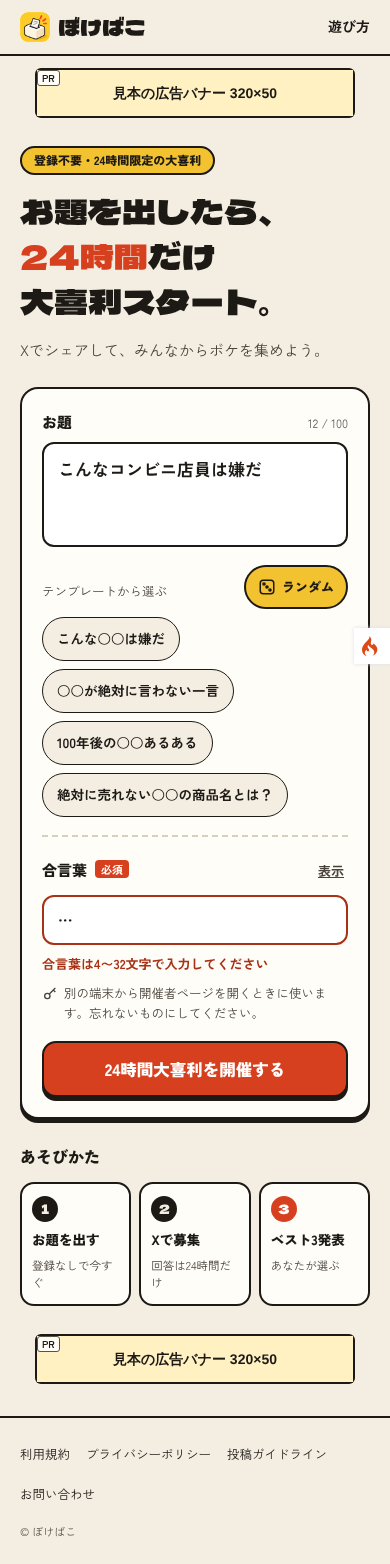
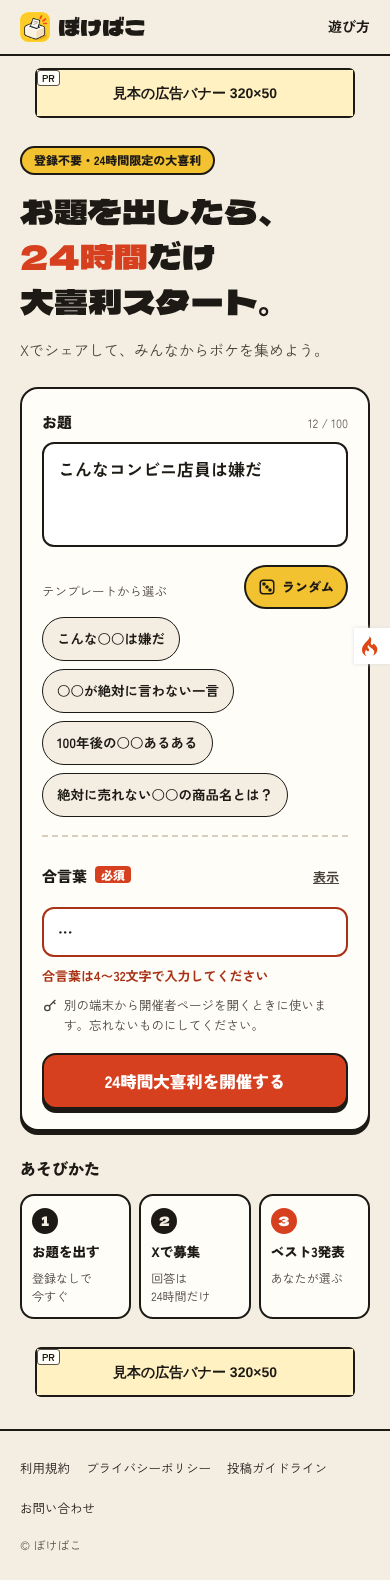
[共通] ブラッシュアップ3回目：文字の大きさ・色・押せる大きさ・部品をそろえる（指示書 第11・12章の続き）
主要15画面を自動で測って直した（12px 未満の文字、配色の表にない色、44px 未満のボタン）
- 12px 未満の文字をなくした（タグ・必須の印・あなたの回答・開催者ページの見出し・あそびかた・フッター）。広告の PR 表示だけ例外
- 説明文の濃い灰（#3A342D）を色の表に --ink-body として足し、6か所の直書きを置き換えた
- 「必須」の印を .c-req に1つにした（U-01 と U-18 で別の部品だった）
- 合言葉の「表示」ボタンと「別の端末から開催者画面を開く」を 44px の高さに
- あそびかたの説明を文節の途中で折り返さない
- 画面の記録を撮り直した

Claude-Session: https://claude.ai/code/session_017BpiDbHoQzEVnmdJX5ZYQm

diff --git a/public/assets/css/base.css b/public/assets/css/base.css
@@ -44,7 +44,7 @@ details > summary::-webkit-details-marker { display: none; }
 .l-footer { margin-top: auto; padding: 16px var(--gutter) 24px; border-top: var(--border); display: flex; flex-direction: column; gap: var(--space-1); }
 .l-footer__nav { display: flex; flex-wrap: wrap; column-gap: 16px; font-size: 12.5px; }
 .l-footer__nav a { min-height: 40px; display: flex; align-items: center; text-decoration: none; }
-.l-footer__copy { font-size: 11px; color: var(--ink-muted); }
+.l-footer__copy { font-size: 12px; color: var(--ink-muted); }
 
 @media (min-width: 768px) {
   .l-header, .l-footer { width: 100%; max-width: var(--content-max); margin-left: auto; margin-right: auto; padding-left: 0; padding-right: 0; }
@@ -85,13 +85,13 @@ details > summary::-webkit-details-marker { display: none; }
 }
 .c-tag--ink { background: var(--ink); color: var(--white); border-color: var(--ink); }
 .c-tag--sand { background: var(--sand); }
-.c-tag--small { padding: 0 6px; font-size: 11px; border-radius: 4px; }
+.c-tag--small { padding: 0 6px; font-size: 12px; border-radius: 4px; }
 .c-tag--outline { background: transparent; border: 1.5px dashed var(--kin); color: var(--kin); border-radius: 6px; padding: 1px 8px; font-size: 11px; }
 
 .c-badge {
   min-width: 22px; height: 22px; padding: 0 6px; border-radius: var(--radius-pill);
   background: var(--shu); color: var(--white);
-  display: inline-flex; align-items: center; justify-content: center; font-size: 11.5px; font-weight: 900;
+  display: inline-flex; align-items: center; justify-content: center; font-size: 12px; font-weight: 900;
 }
 
 .c-card { background: var(--card); border: var(--border); border-radius: var(--radius-card); padding: var(--space-3); display: flex; flex-direction: column; gap: var(--space-2); }
@@ -119,8 +119,8 @@ details > summary::-webkit-details-marker { display: none; }
 .c-segment { display: inline-flex; padding: 3px; border: var(--border); border-radius: 999px; background: var(--card); }
 .c-segment__item { min-height: 36px; display: inline-flex; align-items: center; padding: 0 14px; border-radius: 999px; font-size: 13px; font-weight: 700; color: var(--ink-sub); text-decoration: none; }
 .c-segment__item.is-current { background: var(--ink); color: var(--white); }
-.c-field__required { margin-left: 8px; padding: 1px 6px; border-radius: 4px; background: var(--shu); color: var(--white); font-size: 11px; font-weight: 700; vertical-align: 2px; }
-.c-field__reveal { min-height: 32px; padding: 0 4px; border: 0; background: none; font-size: 13px; font-weight: 700; color: var(--ink-sub); text-decoration: underline; cursor: pointer; }
+.c-req { margin-left: 8px; padding: 0 6px; border-radius: 4px; background: var(--shu); color: var(--white); font-size: 12px; font-weight: 900; vertical-align: 2px; } /* 入力欄の「必須」（U-01・U-18） */
+.c-field__reveal { min-height: 44px; min-width: 44px; padding: 0 6px; border: 0; background: none; font-size: 13px; font-weight: 700; color: var(--ink-sub); text-decoration: underline; cursor: pointer; }
 .c-input, .c-textarea, .c-select {
   width: 100%; border: var(--border); border-radius: var(--radius-input);
   background: var(--white); padding: 0 14px; font-size: 16px; color: var(--ink);
@@ -164,6 +164,6 @@ details > summary::-webkit-details-marker { display: none; }
 
 /* 開催者画面への入口（U-04・U-11） */
 .c-host-entry { text-align: center; font-size: 12.5px; }
-.c-host-entry a { color: var(--ink-sub); }
+.c-host-entry a { display: inline-block; padding: 12px 0; color: var(--ink-sub); } /* 1行だけのリンクなので、押せる高さを 44px にする */
 
 .c-ad[hidden] { display: none; }

diff --git a/public/assets/css/pages/u14-about.css b/public/assets/css/pages/u14-about.css
@@ -2,13 +2,13 @@
 .p-about__hero { padding-top: 32px; gap: 14px; }
 .p-about__hero .c-tag { align-self: flex-start; }
 .p-about__accent { font-style: normal; color: var(--shu); }
-.p-about__lead { font-size: 15px; line-height: 1.8; color: #3A342D; }
+.p-about__lead { font-size: 15px; line-height: 1.8; color: var(--ink-body); }
 .p-about__h2 { font-family: var(--font-display); font-weight: 400; font-size: 22px; }
 .p-about__h3 { font-size: 16px; font-weight: 900; }
 .p-about__steps { display: flex; flex-direction: column; gap: 10px; }
 .p-about__step { background: var(--card); border: var(--border); border-radius: var(--radius-card); padding: 18px; display: flex; gap: 14px; }
 .p-about__step h3 { font-size: 16px; font-weight: 900; margin-bottom: 4px; }
-.p-about__step p { font-size: 13.5px; line-height: 1.7; color: #3A342D; }
+.p-about__step p { font-size: 13.5px; line-height: 1.7; color: var(--ink-body); }
 .p-about__num { width: 36px; height: 36px; flex-shrink: 0; border-radius: 50%; background: var(--ink); color: var(--white); display: flex; align-items: center; justify-content: center; font-family: var(--font-display); font-size: 16px; }
 .p-about__num--shu { background: var(--shu); }
 .p-about__answerer { display: flex; gap: 12px; align-items: flex-start; border: 2px dashed var(--ink); border-radius: 14px; padding: 14px 16px; font-size: 13.5px; line-height: 1.7; }
@@ -25,7 +25,7 @@
 .p-about__faq summary em { font-style: normal; color: var(--shu); margin-right: 8px; }
 .p-about__faq-mark { flex-shrink: 0; width: 26px; height: 26px; border: var(--border); border-radius: 50%; display: flex; align-items: center; justify-content: center; font-size: 15px; }
 .p-about__faq details[open] .p-about__faq-mark { transform: rotate(45deg); }
-.p-about__faq details p { margin: 0 0 16px; padding-left: 20px; font-size: 14px; line-height: 1.75; color: #3A342D; }
+.p-about__faq details p { margin: 0 0 16px; padding-left: 20px; font-size: 14px; line-height: 1.75; color: var(--ink-body); }
 .p-about__rules { padding-left: 18px; list-style: disc; display: flex; flex-direction: column; gap: 4px; font-size: 13.5px; line-height: 1.7; }
 .p-about__link { align-self: flex-start; min-height: 40px; display: flex; align-items: center; font-size: 13.5px; font-weight: 700; }
 .p-about__last { padding-bottom: var(--space-2); }

diff --git a/public/assets/css/pages/u17-guidelines.css b/public/assets/css/pages/u17-guidelines.css
@@ -1,14 +1,14 @@
 /* U-17 投稿ガイドライン */
 .p-guide__hero { padding-top: 30px; gap: 12px; }
 .p-guide__hero .c-tag { align-self: flex-start; }
-.p-guide__lead { font-size: 14.5px; line-height: 1.8; color: #3A342D; }
+.p-guide__lead { font-size: 14.5px; line-height: 1.8; color: var(--ink-body); }
 .p-guide__h2 { font-size: 17px; font-weight: 900; }
 .p-guide__h3 { font-size: 15px; font-weight: 900; }
 .p-guide__p { font-size: 13.5px; line-height: 1.75; }
 .p-guide__rules { display: flex; flex-direction: column; gap: 10px; }
 .p-guide__rule { background: var(--card); border: var(--border); border-radius: 16px; padding: 14px 16px; display: flex; gap: 12px; }
 .p-guide__rule h3 { font-size: 15.5px; font-weight: 900; margin-bottom: 4px; }
-.p-guide__rule p { font-size: 13px; line-height: 1.7; color: #3A342D; }
+.p-guide__rule p { font-size: 13px; line-height: 1.7; color: var(--ink-body); }
 .p-guide__x { width: 28px; height: 28px; flex-shrink: 0; border-radius: 50%; background: var(--shu); color: var(--white); display: flex; align-items: center; justify-content: center; font-size: 14px; font-weight: 900; }
 .p-guide__ask { background: var(--ink); color: var(--white); border-radius: 20px; padding: 22px 20px; display: flex; flex-direction: column; gap: 6px; }
 .p-guide__ask-label { font-size: 12px; font-weight: 900; letter-spacing: .1em; color: var(--kin); }

diff --git a/public/assets/css/components/sheet.css b/public/assets/css/components/sheet.css
@@ -16,7 +16,7 @@
 .c-sheet__points svg { flex-shrink: 0; }
 .c-sheet__note { background: var(--paper); border-radius: var(--radius-input); padding: 14px 16px; display: flex; flex-direction: column; gap: var(--space-1); }
 .c-sheet__note-title { font-size: 13px; font-weight: 900; }
-.c-sheet__rules { padding-left: 18px; list-style: disc; display: flex; flex-direction: column; gap: 4px; font-size: 12.5px; line-height: 1.6; color: #3A342D; }
+.c-sheet__rules { padding-left: 18px; list-style: disc; display: flex; flex-direction: column; gap: 4px; font-size: 12.5px; line-height: 1.6; color: var(--ink-body); }
 .c-sheet__links { display: flex; gap: 16px; font-size: 12.5px; font-weight: 700; }
 .c-sheet__actions { display: flex; flex-direction: column; gap: var(--space-2); }
 .c-sheet__caution { display: flex; gap: 10px; align-items: flex-start; background: var(--paper); border-radius: var(--radius-input); padding: 12px 14px; font-size: 13px; line-height: 1.6; }

diff --git a/public/assets/css/pages/u18-contact.css b/public/assets/css/pages/u18-contact.css
@@ -10,7 +10,6 @@
 .p-contact__chip:has(input:focus-visible) { outline: 3px solid var(--shu); outline-offset: 2px; }
 .p-contact__body { resize: vertical; font-size: 16px; font-weight: 400; }
 .p-contact__captcha { height: 78px; border: 1.5px dashed var(--ink-muted); border-radius: 8px; display: flex; align-items: center; justify-content: center; font-size: 12px; color: var(--ink-muted); }
-.c-req { margin-left: 8px; background: var(--shu); color: var(--white); border-radius: 4px; padding: 0 6px; font-size: 11px; font-weight: 900; vertical-align: 2px; }
 .p-contact__done { align-items: center; text-align: center; gap: 14px; padding-top: 40px; }
-.p-contact__done-lead { font-size: 14px; line-height: 1.8; color: #3A342D; }
+.p-contact__done-lead { font-size: 14px; line-height: 1.8; color: var(--ink-body); }
 .p-contact__done-btn { align-self: stretch; margin-top: var(--space-2); }

diff --git a/public/assets/css/components/answers.css b/public/assets/css/components/answers.css
@@ -7,7 +7,7 @@
 .c-answers--row .c-answers__body { font-size: 15px; }
 .c-answers--row .c-answers__meta { display: contents; }
 .c-answers--row .c-answers__time { display: none; }
-.c-answers__mine { align-self: flex-start; background: var(--ink); color: var(--white); border-radius: 6px; padding: 1px 8px; font-size: 11px; font-weight: 900; }
+.c-answers__mine { align-self: flex-start; background: var(--ink); color: var(--white); border-radius: 6px; padding: 1px 8px; font-size: 12px; font-weight: 900; }
 .c-answers__body { padding-right: 6px; font-size: 16.5px; font-weight: 700; line-height: 1.6; overflow-wrap: anywhere; }
 .c-answers__meta { display: flex; justify-content: space-between; align-items: center; }
 .c-answers__time { font-size: 12px; color: var(--ink-muted); }

diff --git a/public/assets/css/pages/u08-host.css b/public/assets/css/pages/u08-host.css
@@ -7,7 +7,7 @@
 .p-host__odai { font-size: 20px; font-weight: 900; line-height: 1.45; }
 .p-host__stats { display: grid; grid-template-columns: repeat(3, minmax(0, 1fr)); gap: var(--space-1); margin: 0; }
 .p-host__stat { background: var(--card); border: var(--border); border-radius: var(--radius-input); padding: 10px 12px; display: flex; flex-direction: column; }
-.p-host__stat dt { font-size: 11px; font-weight: 700; color: var(--ink-sub); }
+.p-host__stat dt { font-size: 12px; font-weight: 700; color: var(--ink-sub); }
 .p-host__stat dd { margin: 0; font-family: var(--font-display); font-size: 22px; }
 .p-host__stat--small { font-size: 15px !important; }
 .p-host__url { display: flex; gap: var(--space-1); }

diff --git a/public/assets/css/pages/u01-top.css b/public/assets/css/pages/u01-top.css
@@ -19,4 +19,5 @@
 .p-top__num { width: 26px; height: 26px; border-radius: 50%; background: var(--ink); color: var(--paper); display: flex; align-items: center; justify-content: center; font-family: var(--font-display); font-size: 13px; }
 .p-top__num--shu { background: var(--shu); color: var(--white); }
 .p-top__step-title { font-size: 13.5px; font-weight: 900; }
-.p-top__step-body { font-size: 11.5px; line-height: 1.5; color: var(--ink-sub); }
+.p-top__step-body { font-size: 12px; line-height: 1.5; color: var(--ink-sub); }
+.p-top__step-body > span { display: inline-block; } /* 文節の途中で折り返さない（「登録なし／で今すぐ」にならないように） */

diff --git a/public/assets/css/tokens.css b/public/assets/css/tokens.css
@@ -9,6 +9,7 @@
   --ink: #1D1A16;       /* 墨：文字・線・影・Xボタン */
   --ink-sub: #4A433B;   /* 薄墨：補足文字（4.5:1 を満たす最も薄い色） */
   --ink-muted: #5A5248; /* 小さな注記。12px 以上で使う */
+  --ink-body: #3A342D;  /* 長めの説明文（リード・規約・ガイドライン）。墨より少し柔らかい */
   --shu: #D6401E;       /* 朱：主ボタン・1位・残り時間 */
   --shu-deep: #A93115;  /* 深朱：hover・警告 */
   --kin: #F2C230;       /* 山吹：タグ・選択中・自分の回答 */

diff --git a/public/assets/css/pages/u11-closed.css b/public/assets/css/pages/u11-closed.css
@@ -1,6 +1,6 @@
 /* U-11 募集終了 ／ U-13 非表示 */
 .p-closed__hero { align-items: center; text-align: center; gap: 14px; padding-top: 40px; }
-.p-closed__lead { font-size: 14.5px; line-height: 1.75; color: #3A342D; }
+.p-closed__lead { font-size: 14.5px; line-height: 1.75; color: var(--ink-body); }
 .p-closed__cta { margin-top: auto; padding-bottom: var(--space-5); }
 .p-closed__cta-text { font-size: 14px; font-weight: 900; text-align: center; }
 .p-hidden__box { display: flex; flex-direction: column; gap: var(--space-1); }

diff --git a/public/assets/css/pages/u03-created.css b/public/assets/css/pages/u03-created.css
@@ -16,4 +16,4 @@
 .p-created__post-text { font-size: 13.5px; line-height: 1.6; }
 .p-created__ogp { border: 1.5px solid var(--line); border-radius: 12px; overflow: hidden; }
 .p-created__ogp-img { width: 100%; height: auto; aspect-ratio: 1200 / 630; object-fit: cover; background: var(--paper); }
-.p-created__ogp-domain { display: block; padding: 6px 10px; font-size: 11px; color: var(--ink-muted); }
+.p-created__ogp-domain { display: block; padding: 6px 10px; font-size: 12px; color: var(--ink-muted); }

diff --git a/app/Views/front/u01_top.php b/app/Views/front/u01_top.php
@@ -68,7 +68,7 @@ use App\Libraries\Passphrase;
 
 <div class="c-field">
 <div class="c-field__head">
-<label class="c-field__label" for="passphrase">合言葉<span class="c-field__required">必須</span></label>
+<label class="c-field__label" for="passphrase">合言葉<span class="c-req">必須</span></label>
 <button type="button" class="c-field__reveal" data-js-reveal="passphrase" aria-pressed="false">表示</button>
 </div>
 <input class="c-input<?= isset($errors['passphrase']) ? ' is-invalid' : '' ?>" id="passphrase" name="passphrase" type="password" autocomplete="new-password" required minlength="<?= Passphrase::MIN ?>" maxlength="<?= Passphrase::MAX ?>" placeholder="あなただけが分かる言葉（<?= Passphrase::MIN ?>〜<?= Passphrase::MAX ?>文字）" value="<?= esc($old['passphrase'], 'attr') ?>" aria-describedby="<?= isset($errors['passphrase']) ? 'passphrase-error ' : '' ?>passphrase-help">
@@ -89,9 +89,9 @@ use App\Libraries\Passphrase;
 <section class="l-section" id="howto">
 <h2 class="p-top__h2">あそびかた</h2>
 <ol class="p-top__steps">
-<li class="p-top__step"><span class="p-top__num">1</span><span class="p-top__step-title">お題を出す</span><span class="p-top__step-body">登録なしで今すぐ</span></li>
-<li class="p-top__step"><span class="p-top__num">2</span><span class="p-top__step-title">Xで募集</span><span class="p-top__step-body">回答は24時間だけ</span></li>
-<li class="p-top__step"><span class="p-top__num p-top__num--shu">3</span><span class="p-top__step-title">ベスト3発表</span><span class="p-top__step-body">あなたが選ぶ</span></li>
+<li class="p-top__step"><span class="p-top__num">1</span><span class="p-top__step-title">お題を出す</span><span class="p-top__step-body"><span>登録なしで</span><span>今すぐ</span></span></li>
+<li class="p-top__step"><span class="p-top__num">2</span><span class="p-top__step-title">Xで募集</span><span class="p-top__step-body"><span>回答は</span><span>24時間だけ</span></span></li>
+<li class="p-top__step"><span class="p-top__num p-top__num--shu">3</span><span class="p-top__step-title">ベスト3発表</span><span class="p-top__step-body"><span>あなたが</span><span>選ぶ</span></span></li>
 </ol>
 </section>
 <?= $this->endSection() ?>
